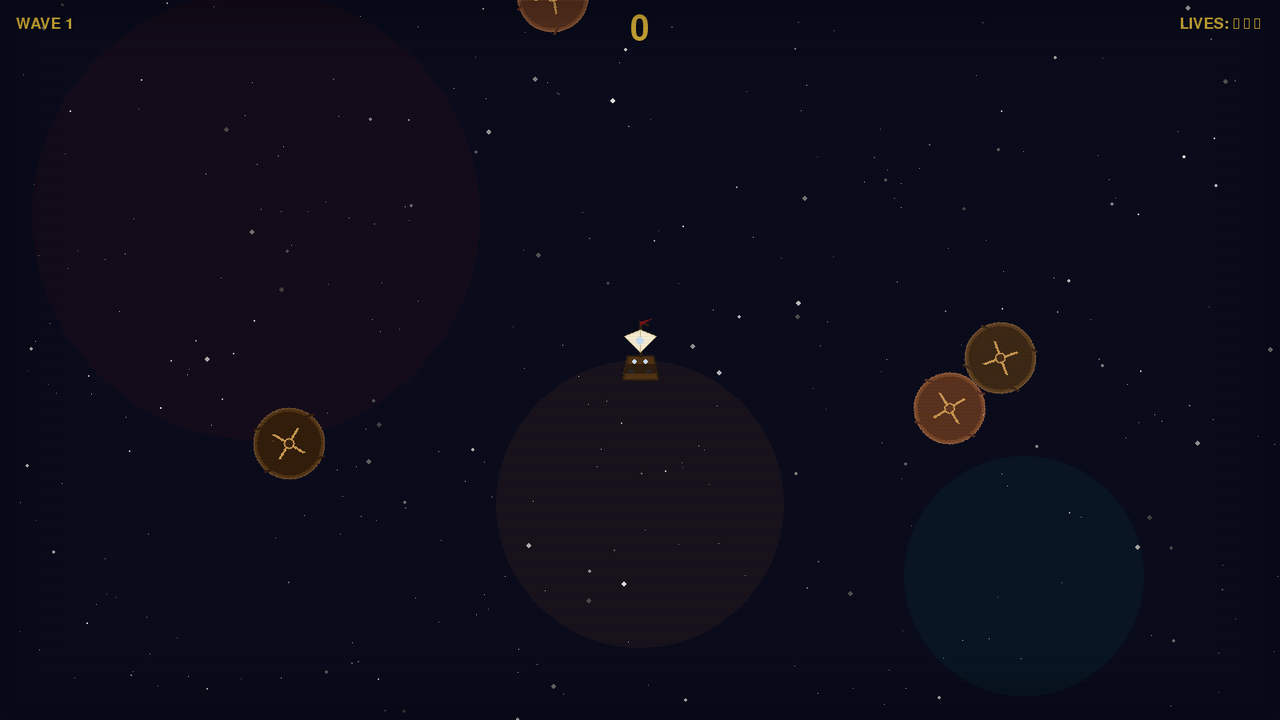
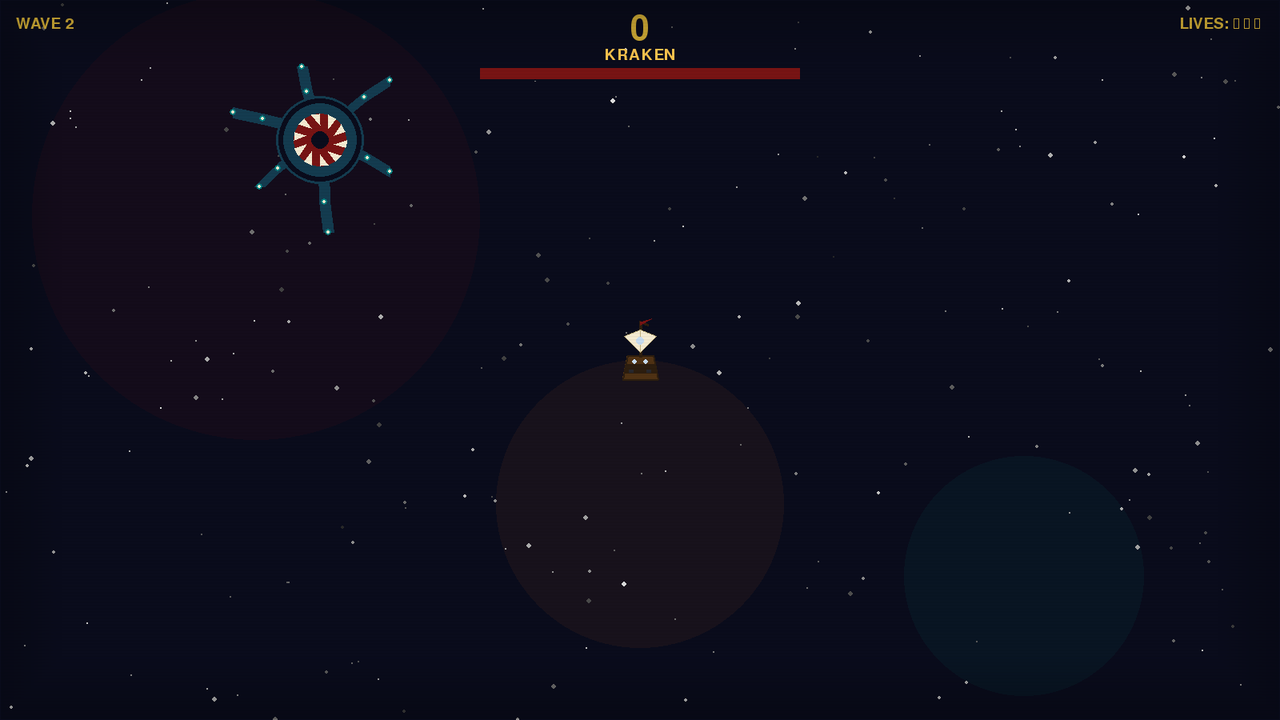
chore: final collection release polish
- Fix stale homepage theme test with semantic section selectors

- Kraken public copy now covers the boss (waves, telegraphs, rewards); Treasure BREACH wording; Race rival-pressure features

- State-driven screenshot pipeline (one-shot seams + published-state waits); curated Fever/Breach/Kraken screenshots, Race kept

- Capstone Captain's Log post: four games, one more pass

- A11y: slider value attrs + live updates, GameFinder labels, badge contrast, scrollable-region focus, mobile gameplay-test hardening

diff --git a/tests/site-theme.spec.ts b/tests/site-theme.spec.ts
@@ -6,22 +6,17 @@ test.describe("Site Visual Theme", () => {
   test("Homepage renders main sections", async ({ page }) => {
     await page.goto("/");
 
-    // Check main sections exist
+    // Check main sections exist (semantic selectors for the
+    // showcase/grid/experiment architecture)
     await expect(page.locator("h1.hero__title")).toContainText("PIRATE ARCADE");
-    await expect(page.locator("h2.section__title").first()).toContainText(
-      "Games",
+    await expect(page.locator(".section--games .section__title")).toContainText(
+      "Pirate Arcade Games",
     );
-    await expect(page.locator("h2.section__title").nth(1)).toContainText(
-      "Race to Treasure",
-    );
-    await expect(page.locator("h2.section__title").nth(2)).toContainText(
-      "Play in Browser Now",
-    );
-    await expect(page.locator("h2.section__title").nth(3)).toContainText(
+    await expect(page.locator(".section--pyle .section__title")).toContainText(
       "Free AI, Local Hardware, Open Source",
     );
 
-    // Check game cards are visible
+    // Check all four browser-game cards are visible
     await expect(
       page.locator('article:has-text("Cannonball Clash") h3 a'),
     ).toBeVisible();
@@ -32,17 +27,22 @@ test.describe("Site Visual Theme", () => {
       page.locator('article:has-text("Kraken\'s Wake") h3 a'),
     ).toBeVisible();
     await expect(
-      page.locator('article:has-text("Port Royale Tycoon") h3 a'),
+      page.locator('article:has-text("Race to Treasure Island") h3 a'),
     ).toBeVisible();
 
-    // Check browser-play CTAs — all three browser-playable games
+    // Desktop-only game appears as a callout link, not a card
+    await expect(page.locator(".desktop-callout")).toContainText(
+      "Port Royale Tycoon",
+    );
+
+    // Check browser-play CTAs — all four browser-playable games
     await expect(page.locator("text=Play in Browser →")).toHaveCount(4);
   });
 
   test("Play page shows browser-playable games", async ({ page }) => {
     await page.goto("/play/");
 
-    // Should show the two browser-playable games prominently - use game card titles
+    // Should show the four browser-playable games prominently - use game card titles
     await expect(
       page.locator('article:has-text("Cannonball Clash") h3 a'),
     ).toBeVisible();

diff --git a/tests/a11y.spec.ts b/tests/a11y.spec.ts
@@ -118,15 +118,42 @@ for (const game of GAMES) {
       });
 
       test("DOM during gameplay has no critical blockers", async ({ page }) => {
+        // Gameplay is landscape-designed; portrait touch projects show a
+        // rotate prompt hiding #game-wrap by design. Use a landscape
+        // viewport so this test exercises the game, not the prompt.
+        await page.setViewportSize({ width: 812, height: 375 });
         await page.goto(game.path, { waitUntil: "domcontentloaded" });
         await page.waitForFunction(
           () => document.getElementById("transfer")?.hidden === true,
           { timeout: 120000, polling: 500 },
         );
+        // The canvas stays 1x1 until pygame resizes it; clicking earlier
+        // races boot on slower (mobile-emulated) runtimes.
+        await page.waitForFunction(
+          () => {
+            const c = document.getElementById(
+              "canvas",
+            ) as HTMLCanvasElement | null;
+            return !!c && c.width > 100 && c.height > 100;
+          },
+          { timeout: 120000, polling: 500 },
+        );
 
+        // Wait for visibility explicitly: under parallel-gate load the
+        // fixed click timeout can expire while boot is still settling.
         await page
           .locator("canvas#canvas")
-          .click({ position: { x: 10, y: 10 } });
+          .waitFor({ state: "visible", timeout: 120000 });
+        // Touch projects overlay live controls on top of the canvas;
+        // start through the production action button when it is visible.
+        const actionBtn = page.locator("#touch-overlay .btn-action");
+        if (await actionBtn.isVisible()) {
+          await actionBtn.click();
+        } else {
+          await page
+            .locator("canvas#canvas")
+            .click({ position: { x: 10, y: 10 } });
+        }
         await page.locator("canvas#canvas").focus();
         for (const key of game.desktopKeys) {
           await page.keyboard.press(key);

diff --git a/public/play/treasure-cove/index.html b/public/play/treasure-cove/index.html
@@ -495,7 +495,7 @@
     <div id="pyconsole"><div id="terminal" tabIndex=1 align="left"></div></div>
 
     <div class="touch-overlay" id="touch-overlay" data-controls="breakout">
-      <div class="touch-drag-zone touch-drag-x" data-dir="drag-x" role="slider" aria-label="Slide longboat left or right"></div>
+      <div class="touch-drag-zone touch-drag-x" data-dir="drag-x" role="slider" aria-label="Slide longboat left or right" aria-valuemin="0" aria-valuemax="1600" aria-valuenow="800"></div>
       <div class="btn btn-nudge btn-left" data-dir="left">◀</div>
       <div class="btn btn-nudge btn-right" data-dir="right">▶</div>
       <div class="btn btn-action" data-dir="action" role="button" aria-label="Launch ball">LAUNCH</div>

diff --git a/public/play/cannonball-clash/index.html b/public/play/cannonball-clash/index.html
@@ -495,7 +495,7 @@
     <div id="pyconsole"><div id="terminal" tabIndex=1 align="left"></div></div>
 
     <div class="touch-overlay" id="touch-overlay" data-controls="pong">
-      <div class="touch-drag-zone touch-drag-y" data-dir="drag-y" role="slider" aria-label="Slide ship up or down"></div>
+      <div class="touch-drag-zone touch-drag-y" data-dir="drag-y" role="slider" aria-label="Slide ship up or down" aria-valuemin="0" aria-valuemax="900" aria-valuenow="450"></div>
       <div class="btn btn-nudge btn-up" data-dir="left">▲</div>
       <div class="btn btn-nudge btn-down" data-dir="right">▼</div>
       <div class="btn btn-action" data-dir="action" role="button" aria-label="Start game">START</div>

diff --git a/tests/mobile-navigation.spec.ts b/tests/mobile-navigation.spec.ts
@@ -60,6 +60,15 @@ test.describe("Mobile Navigation", () => {
 
         const backLink = page.locator("#back-link");
         await expect(backLink).toBeVisible();
+        // The loading overlay covers the page during boot by design;
+        // wait for it to hide so hit-testing reflects the live shell.
+        await page.waitForFunction(
+          () =>
+            document
+              .getElementById("game-loading")
+              ?.classList.contains("hidden") ?? true,
+          { timeout: 120000, polling: 500 },
+        );
 
         const topElement = await page.evaluate(() => {
           const el = document.getElementById("back-link");

diff --git a/public/play/shared/mobile-controls.js b/public/play/shared/mobile-controls.js
@@ -132,6 +132,12 @@
     } else if (dragAxis === 'x') {
       if (input) input.setTouchTarget('x', coords.x, true);
     }
+    // Keep the drag-zone slider value truthful for assistive tech.
+    var zone = overlay ? overlay.querySelector('.touch-drag-zone') : null;
+    if (zone) {
+      var v = dragAxis === 'y' ? coords.y : coords.x;
+      zone.setAttribute('aria-valuenow', String(v));
+    }
     if (!dragStarted) {
       dragStarted = true;
       overlay.classList.add('drag-active');

diff --git a/src/content/posts/four-games-one-more-pass.md b/src/content/posts/four-games-one-more-pass.md
@@ -1,0 +1,78 @@
+---
+title: "Four Games, One More Pass: Gameplay Depth Before Maintenance Mode"
+description: "A final gameplay pass across the four browser games — persistence, Rally Fever, a real rival, an actual Kraken, and the audit that concluded by changing less."
+pubDate: 2026-09-08
+draft: false
+---
+
+The four browser games were playable, tested, and shipped. Then I played them
+properly — full runs, keyboard and touch, all stages — and found that
+"playable" was hiding four different depth gaps. This post covers the final
+gameplay pass before the collection enters maintenance mode.
+
+## Personal bests first
+
+None of the browser games remembered anything. Every run started from zero, so
+there was no reason to come back. All four now persist a local personal best
+(score, or longest rally for Cannonball) with no accounts, no backend, and no
+tracking — just localStorage with an in-memory fallback.
+
+## Cannonball Clash: Fever with no consequence
+
+Rally Fever had presentation — tier names, glow, callouts — but reaching a
+10-hit rally changed nothing about the point. The fix was deliberately small:
+crossing CANNONBALL FEVER now grants Reinforced Hull mid-point, once per
+point, through the existing power-up path. One mechanic, already-built
+plumbing, and the streak chase finally means something.
+
+## Race to Treasure Island: a rival that wasn't
+
+The initial race math favored the player too strongly; Long John was scenery.
+He is now a readable rival: scheduled surges (gold sails) followed by
+breathers to push on, retaliation when your hits land, and Treasure chests
+that restore WIND so routing matters. Winning pays a First-ashore bonus, so
+the score chase has a point beyond finishing.
+
+## Kraken's Wake: the missing Kraken
+
+The most obvious gap in the collection: the game called _Kraken's Wake_
+contained no Kraken. It now has recurring boss waves with a fairness-first
+design — the boss enters at a safe distance, locks its lunge direction at
+telegraph start so it stays dodgeable, and only takes damage outside the
+lunge. Kill scoring rewards the risk. Most of the work was restraint: entry
+distance, telegraph readability, and respawn behavior, not damage numbers.
+
+## Treasure Cove: the audit that changed less
+
+The most interesting lesson of the pass. Initial analysis said Stage 3
+needed restructuring — 80 bricks, 116 nominal hit points, nearly half of
+them reinforced. Deeper source and layout analysis showed the opposite: the
+existing Powder Keg placement already formed a deliberate siege network
+capable of removing roughly a third of the stage, and every Treasure brick
+sat inside a blast neighborhood.
+
+So the layout didn't change at all. Three small things shipped instead:
+`BREACH xN!` feedback so the existing cascades read as major moments,
+a missing browser explosion sound (the kegs were firing silently — the
+bridge simply had no mapping), and blast-destroyed Treasure keeping its
+normal pickup, since the old behavior silently punished exactly the keg
+play the game wants to teach. Sometimes the correct result of an audit is
+to change less.
+
+## Seams, not cheats
+
+Each fix ships with a deterministic one-shot test seed (consumed on read,
+best-score submission suppressed, fresh reloads ordinary). They exist so
+browser tests can prove exact behavior — rally tier 10 grants a 150px
+paddle, a Stage-3 keg scores exactly 645 with two Treasure drops — and they
+doubled as the screenshot rig: every current game screenshot is a
+reproducible seeded state, not a lucky frame.
+
+## What stays the same
+
+Zero-cost framing, stated plainly: a terminal coding agent, free-to-use
+models, local hardware, GitHub, and Cloudflare's free tier. No paid AI
+subscriptions, no cloud compute. From here the collection is in maintenance
+mode — future gameplay changes need real player feedback, an observed bug,
+or a platform breakage. The release gate stays green; the games stay as
+they are.
